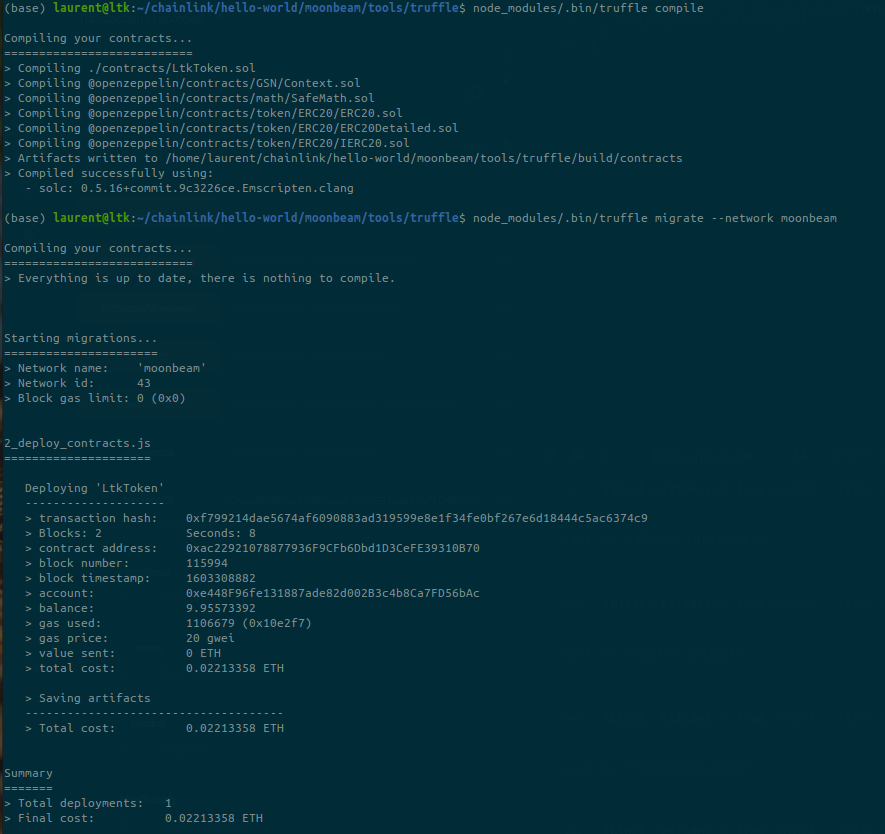
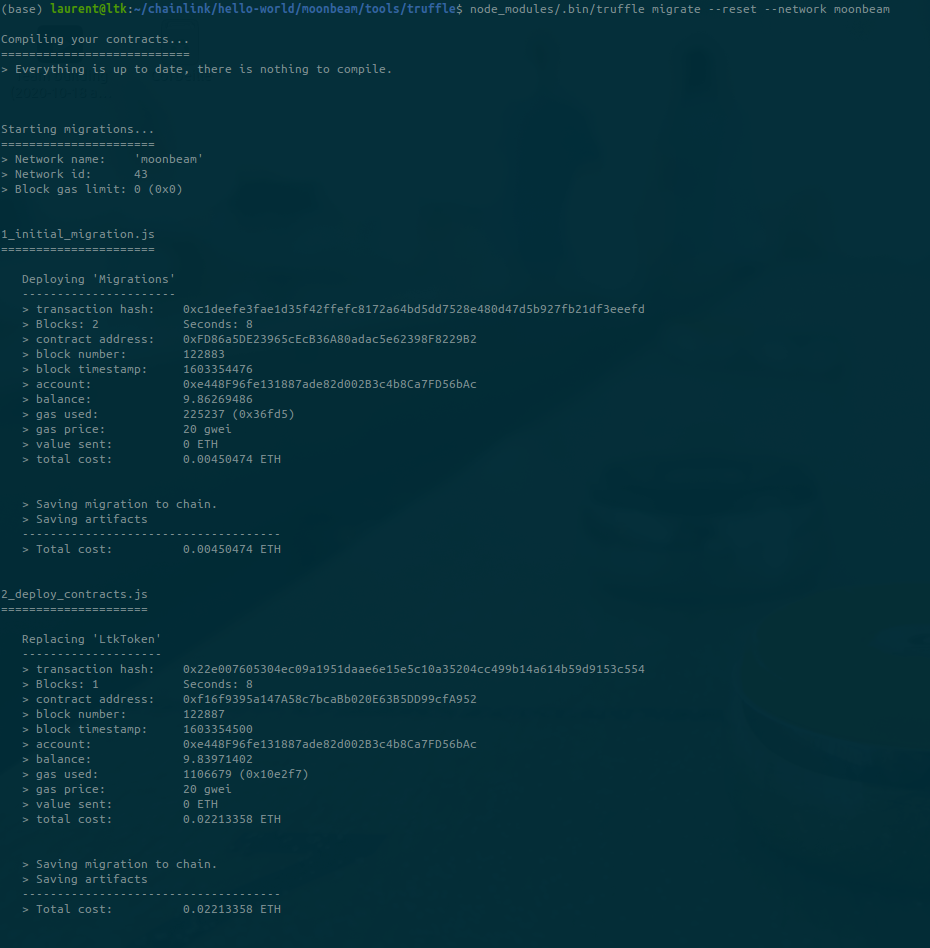
#1 [ECOSYSTEM CHALLENGE] Deploy On Moonbase Alpha Using Truffle

diff --git a/moonbeam/truffle/README.md b/moonbeam/truffle/README.md
@@ -1,1 +1,1 @@
-0xe448F96fe131887ade82d002B3c4b8Ca7FD56bAc,0xac22921078877936F9CFb6Dbd1D3CeFE39310B70
+0xFD86a5DE23965cEcB36A80adac5e62398F8229B2,0xf16f9395a147A58c7bcaBb020E63B5DD99cfA952
